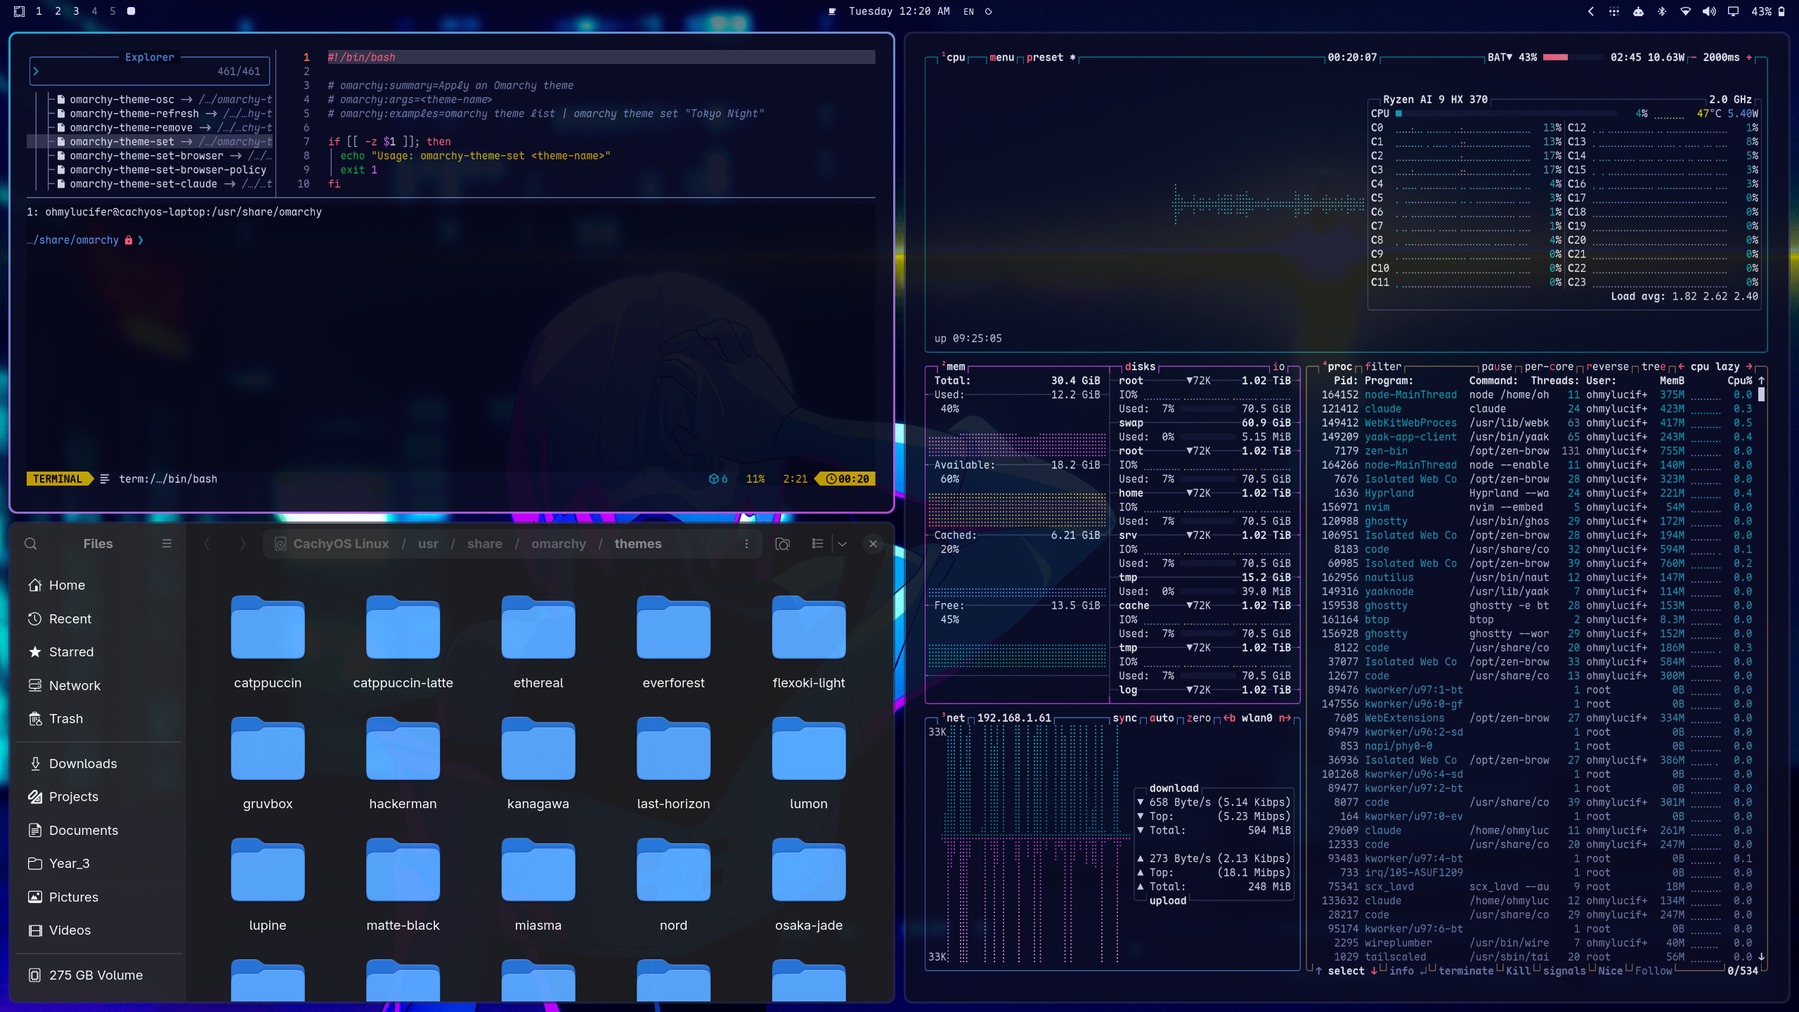
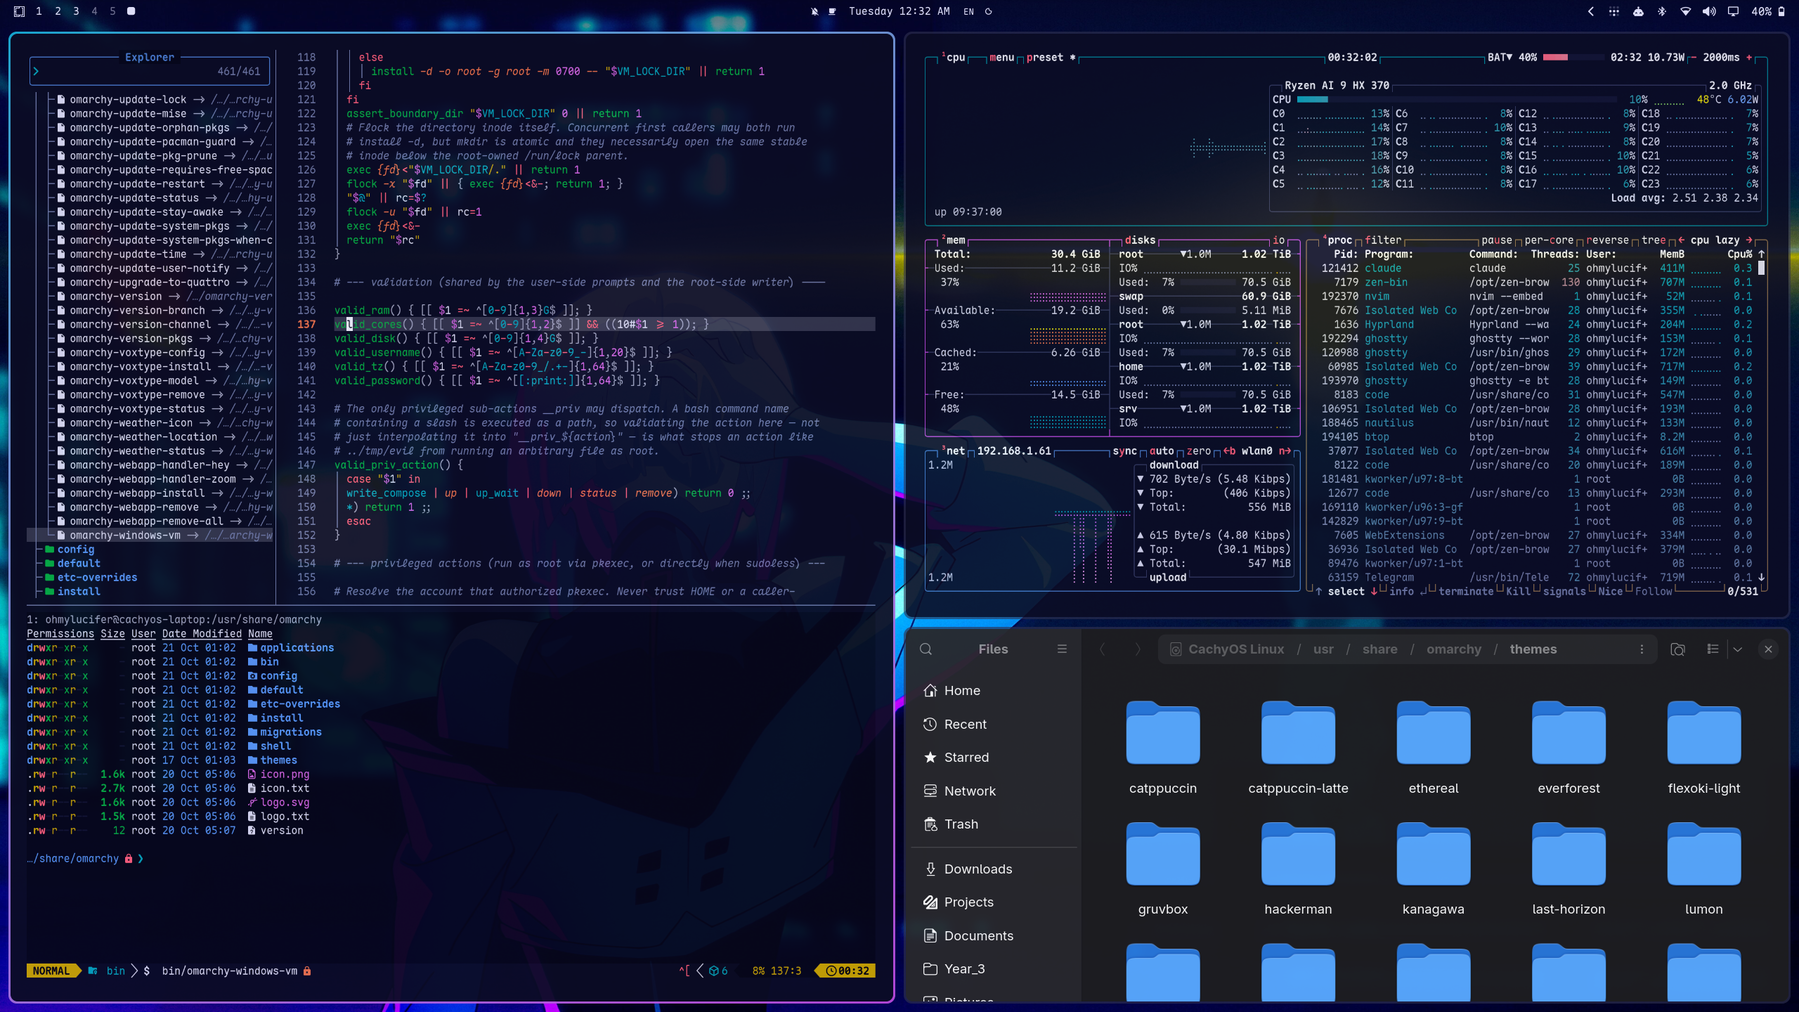
Lucy under the moon replaces the unscrimmed red portrait; stock preview layout
04 is now Lucy at a window under the full moon as the rocket climbs
(Wallhaven jxg7x5), with the same dark top band as the others, so every
background keeps bar text above 4.9:1. The preview follows Omarchy's
layout: Neovim full height on the left, btop over Nautilus on the right.

diff --git a/README.md b/README.md
@@ -54,7 +54,7 @@ Omarchy generates every app's theme from `colors.toml`; the theme ships its own 
 - `icons.theme`: Yaru-blue-dark, after Lucy's hair.
 - `unlock.png`: Lucy's moon, a neon crescent crossed by the rocket's flare, for the boot screen. Apply it with `omarchy-plymouth-set-by-theme edgerunners`.
 - `preview.png`, `preview-unlock.png`: the theme picker images.
-- `backgrounds/`: fan art and stills of Lucy: the rocket launch, a rainy window over Night City, and the red key-art portrait (with and without a dark top band). The bar is often transparent, so the first three carry a soft dark band at the top that keeps bar text above 4.9:1. Cycle them with `omarchy theme bg next`. The wallpapers are other people's work, collected from wallpaper sites; their artists are unknown to me, and they stay theirs.
+- `backgrounds/`: fan art and stills of Lucy: the rocket launch, a rainy window over Night City, the red key-art portrait, and Lucy at a window under the full moon as the rocket climbs ([Wallhaven jxg7x5](https://wallhaven.cc/w/jxg7x5)). The bar is often transparent, so each carries a soft dark band at the top that keeps bar text above 4.9:1. Cycle them with `omarchy theme bg next`. The wallpapers are other people's work, collected from wallpaper sites; their artists are unknown to me, and they stay theirs.
 
 ### Editors
 
